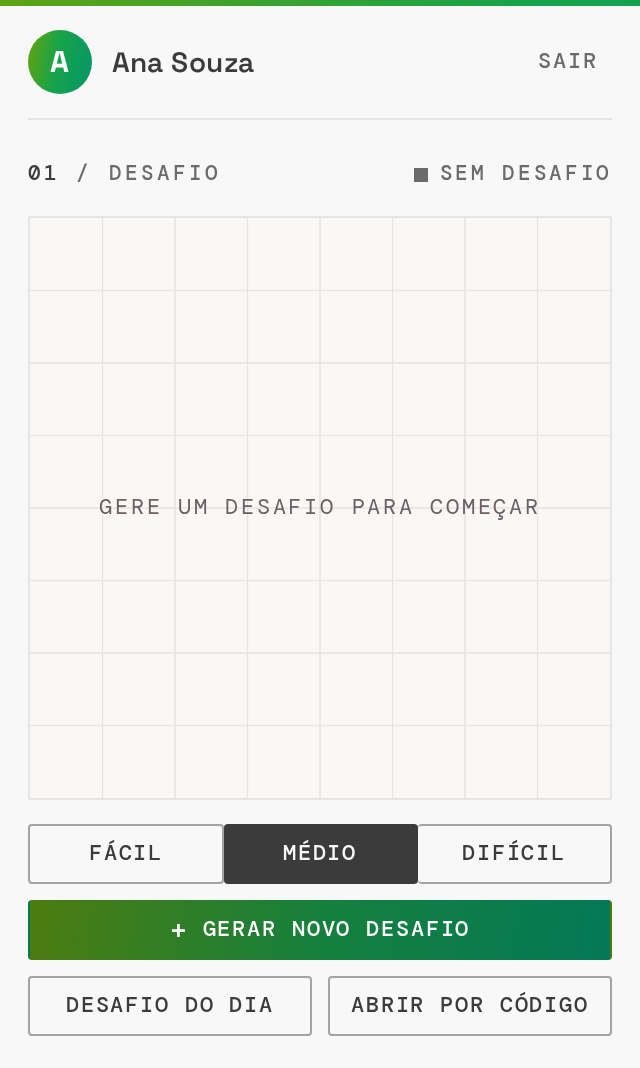
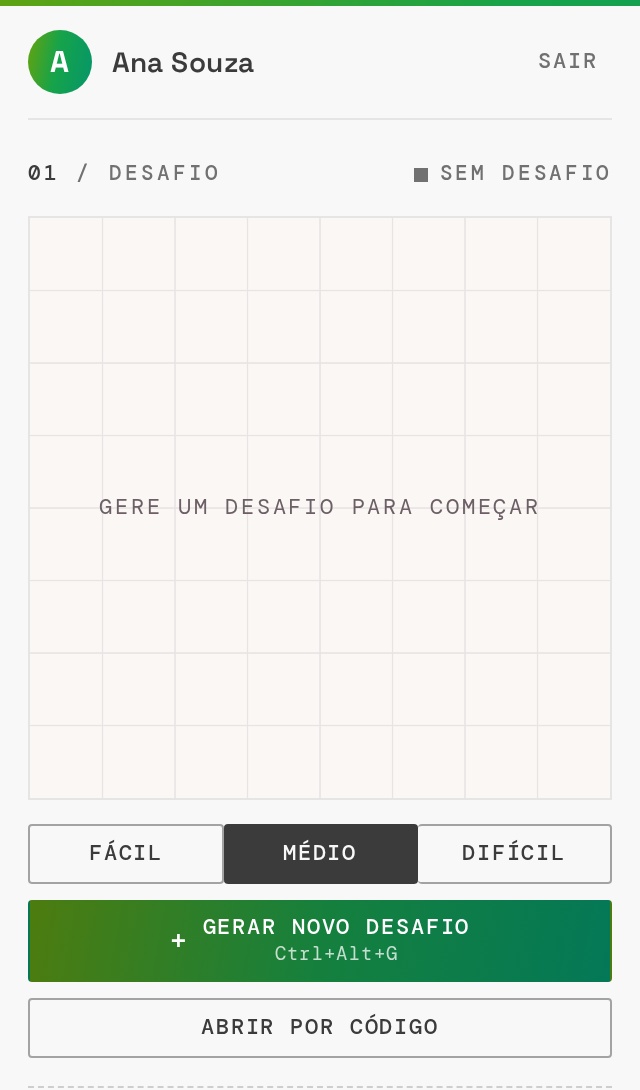
capturas de tela novas e a nota da aba sem empurrar a lista de componentes

diff --git a/extensao/src/web/telas/estilos/painelGabarito.ts b/extensao/src/web/telas/estilos/painelGabarito.ts
@@ -104,6 +104,10 @@ export const ESTILOS_PAINEL_GABARITO = `
       align-items: center;
       gap: 8px 14px;
       margin-bottom: 12px;
+      /* A nota quebra na largura da imagem, sem alargar a coluna e
+         empurrar a lista de componentes para fora da aba. */
+      width: 0;
+      min-width: 100%;
     }
 
     .verificacao-aba button {
